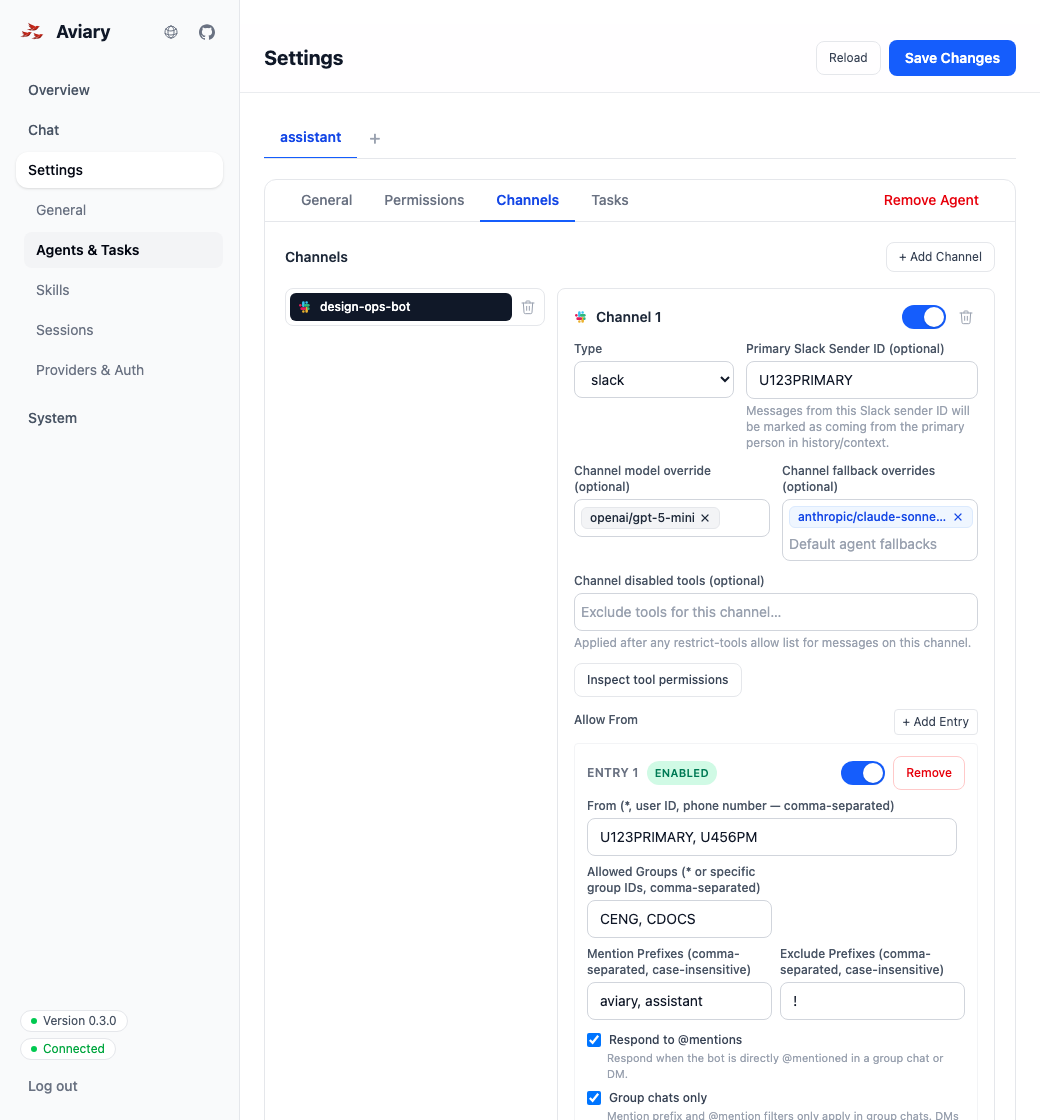
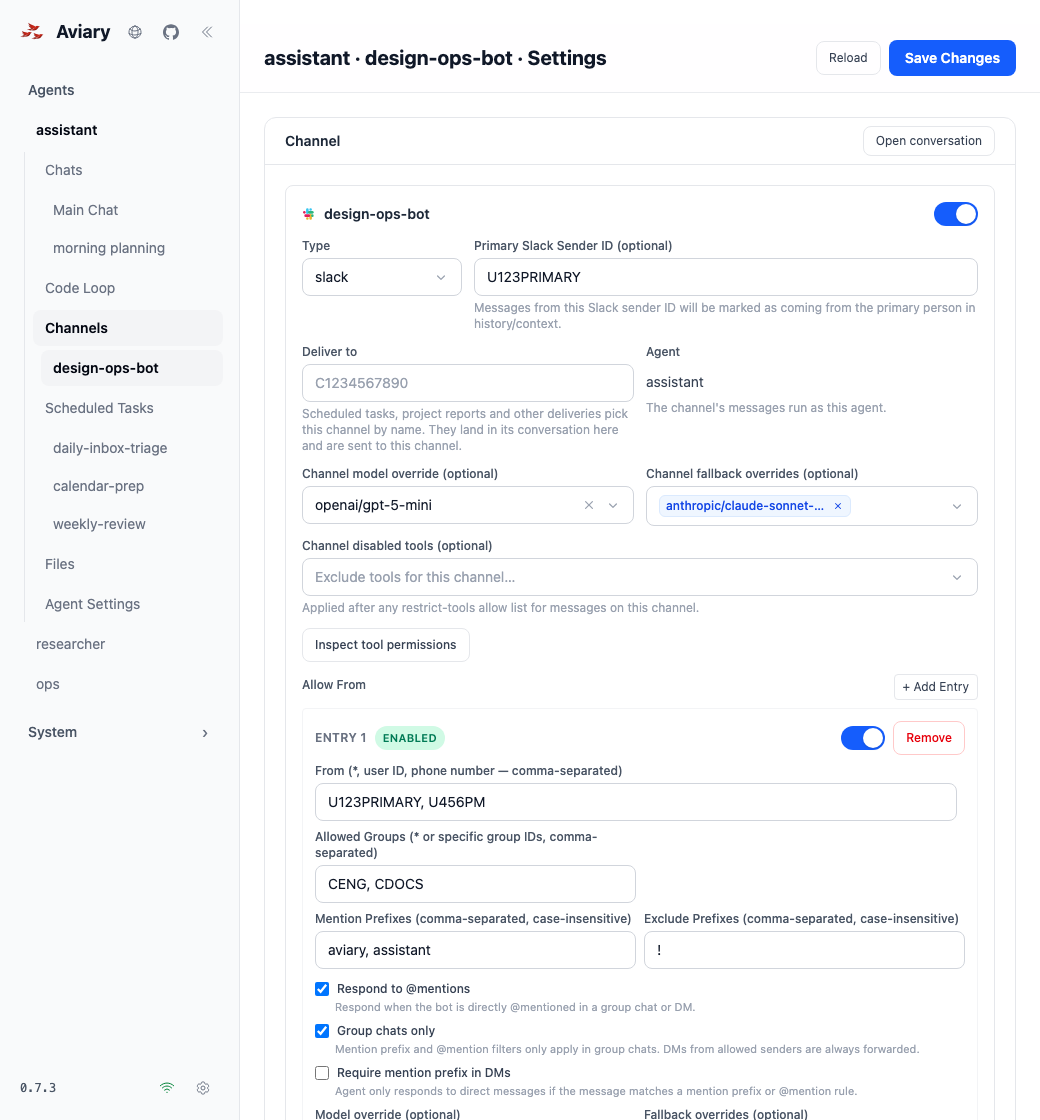
Fix docs screenshot script for non-Code-Loop captures (#947)
* Start work on issue #946 [skip ci]

* Checkpoint issue #946 progress [skip ci]

* Fix docs screenshot script for non-Code-Loop captures

Updates routes, ready selectors and fixtures to the current UI, mocks every /api request so the dev server's proxy can't leak the local server's data, and regenerates every docs screenshot.

Closes #946

---------

diff --git a/docs/site/.vitepress/theme/components/LandingHomePage.vue b/docs/site/.vitepress/theme/components/LandingHomePage.vue
@@ -19,9 +19,9 @@ const showcaseItems: ShowcaseItem[] = [
 	{
 		title: "Plan the morning",
 		description:
-			"Keep recurring planning threads in one shared chat view with tool calls and context inline.",
+			"Keep recurring planning threads as chat sessions with tool calls and context inline.",
 		bullets: [
-			"Separate tabs for recurring threads.",
+			"Each recurring thread is its own session in the sidebar.",
 			"Tool calls stay attached to the answer.",
 			"Good for daily briefs and handoffs.",
 		],
@@ -32,15 +32,15 @@ const showcaseItems: ShowcaseItem[] = [
 	{
 		title: "Configure everything",
 		description:
-			"Set up channels, sender rules, permissions, and model overrides from one screen.",
+			"Set up a channel's sender rules, mention routing, and model overrides from its settings page.",
 		bullets: [
 			"Per-channel model overrides.",
 			"Sender allowlists and mention-only routing.",
-			"Agent-level permissions without guesswork.",
+			"Per-channel disabled tools.",
 		],
 		lightSrc: "/screenshots/configure-everything-light.png",
 		darkSrc: "/screenshots/configure-everything-dark.png",
-		alt: "Configure channels and model overrides",
+		alt: "A Slack channel's settings with sender rules and model overrides",
 	},
 	{
 		title: "Usage analytics",
@@ -71,9 +71,9 @@ const showcaseItems: ShowcaseItem[] = [
 	{
 		title: "Jobs and compile attempts",
 		description:
-			"See queue health, scheduled runs, retries, and compile attempts in one place.",
+			"See an agent's scheduled runs, retries, and compile attempts on its Scheduled Tasks page.",
 		bullets: [
-			"Scheduled jobs and retries in one view.",
+			"Run counts, success rate, and upcoming runs at a glance.",
 			"Compile status visible per task.",
 			"Failure details without leaving the browser.",
 		],

diff --git a/CONTRIBUTING.md b/CONTRIBUTING.md
@@ -156,7 +156,7 @@ node scripts/generate-doc-screenshots.mjs        # every screenshot, light and d
 node scripts/generate-doc-screenshots.mjs projects  # only screenshots whose name starts with "projects"
 ```
 
-The script mocks every MCP call, so no Go server or credentials are needed and nothing private ends up in an image. Set `DOCS_SCREENSHOT_BASE_URL` when the web dev server isn't at `https://127.0.0.1:5173`. Keep fixture data to public repositories with no tokens or personal details.
+The script mocks every MCP call and answers every other `/api` request itself (the dev server would otherwise proxy them to your local Aviary server), so no Go server or credentials are needed and nothing private ends up in an image. Set `DOCS_SCREENSHOT_BASE_URL` when the web dev server isn't at `https://127.0.0.1:5173`. Keep fixture data to public repositories with no tokens or personal details.
 
 ## MCP Connection
 
